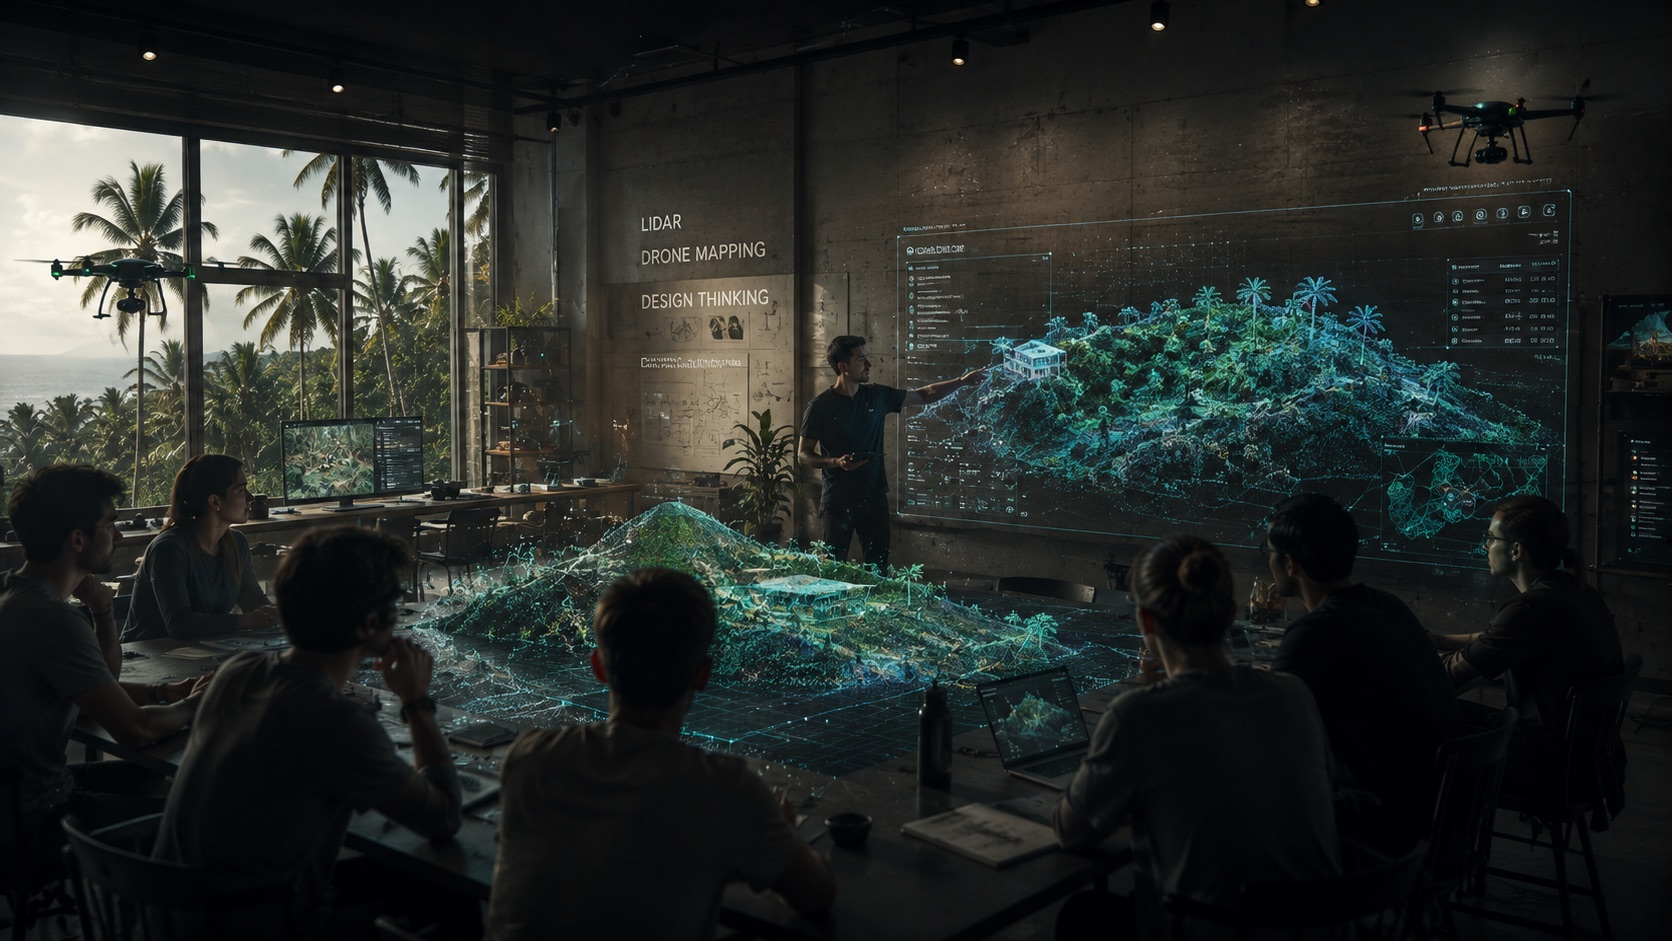
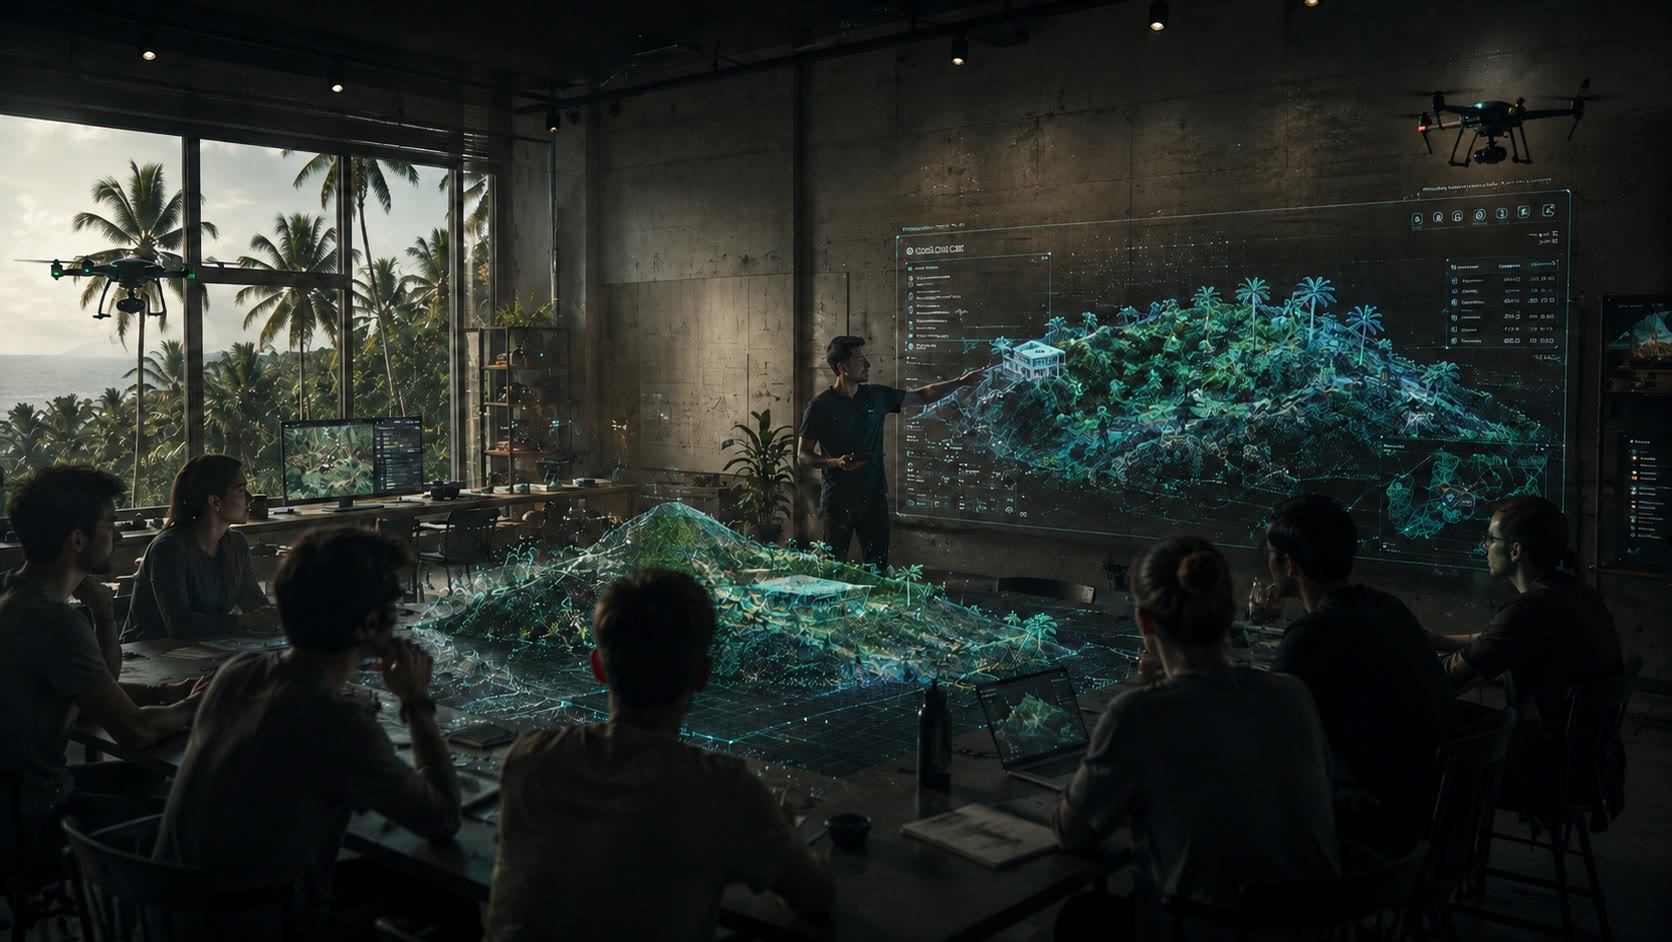
Education hero: new backdrop (aduc_alt -> education-back.jpg, 260KB); v=72

diff --git a/th/education.html b/th/education.html
@@ -7,8 +7,8 @@
 <meta name="description" content="เรียนรู้การสแกน LiDAR การทำแผนที่ด้วยโดรน และการวิเคราะห์ภูมิประเทศ 3 มิติ ผ่านเวิร์กช็อปและหลักสูตรอบรมของ EASY SCAN ในประเทศไทย">
 <link rel="icon" href="../assets/img/logo-mark-white.png">
 <script>document.documentElement.className+=" js";</script>
-<link rel="stylesheet" href="../design-system/styles.css?v=71">
-<link rel="stylesheet" href="../assets/css/style.css?v=71">
+<link rel="stylesheet" href="../design-system/styles.css?v=72">
+<link rel="stylesheet" href="../assets/css/style.css?v=72">
 </head>
 <body>
 <a class="skip-link" href="#main">ข้ามไปยังเนื้อหา</a>
@@ -55,7 +55,7 @@
 </nav>
 <main id="main">
   <section class="page-hero page-hero--full">
-    <div class="page-hero__media page-hero__media--light"><img src="../assets/img/education-back.jpg" alt="บรรยากาศเวิร์กช็อปภาคสนามในป่าเขตร้อน"></div>
+    <div class="page-hero__media page-hero__media--light"><img src="../assets/img/education-back.jpg" alt="Training session with participants viewing a holographic แบบจำลองภูมิประเทศ 3 มิติ"></div>
     <div class="wrap wrap--wide">
       <p class="breadcrumb"><a href="index.html">หน้าแรก</a><span>/</span> การอบรม</p>
       <h1 class="page-hero__title">หลักสูตร<br>อบรม</h1>
@@ -96,6 +96,6 @@
     </div>
   </div>
 </footer>
-<script src="../assets/js/main.js?v=71"></script>
+<script src="../assets/js/main.js?v=72"></script>
 </body>
 </html>

diff --git a/education.html b/education.html
@@ -7,8 +7,8 @@
 <meta name="description" content="Learn LiDAR scanning, drone mapping and 3D terrain analysis through EASY SCAN's workshops and training programs in Thailand.">
 <link rel="icon" href="assets/img/logo-mark-white.png">
 <script>document.documentElement.className+=" js";</script>
-<link rel="stylesheet" href="design-system/styles.css?v=71">
-<link rel="stylesheet" href="assets/css/style.css?v=71">
+<link rel="stylesheet" href="design-system/styles.css?v=72">
+<link rel="stylesheet" href="assets/css/style.css?v=72">
 </head>
 <body>
 <a class="skip-link" href="#main">Skip to content</a>
@@ -55,7 +55,7 @@
 </nav>
 <main id="main">
   <section class="page-hero page-hero--full">
-    <div class="page-hero__media page-hero__media--light"><img src="assets/img/education-back.jpg" alt="Field workshop setting in a tropical forest"></div>
+    <div class="page-hero__media page-hero__media--light"><img src="assets/img/education-back.jpg" alt="Training session with participants viewing a holographic 3D terrain model"></div>
     <div class="wrap wrap--wide">
       <p class="breadcrumb"><a href="index.html">Main</a><span>/</span> Education</p>
       <h1 class="page-hero__title">Education<br>program</h1>
@@ -96,6 +96,6 @@
     </div>
   </div>
 </footer>
-<script src="assets/js/main.js?v=71"></script>
+<script src="assets/js/main.js?v=72"></script>
 </body>
 </html>

diff --git a/th/index.html b/th/index.html
@@ -7,8 +7,8 @@
 <meta name="description" content="ข้อมูลที่ดินอัจฉริยะแบบดิจิทัลเพื่อการพัฒนาที่ชาญฉลาดขึ้น EASY SCAN ใช้ LiDAR และการทำแผนที่ด้วยโดรน เพื่อมอบแบบจำลองภูมิประเทศ 3 มิติที่แม่นยำแก่สถาปนิก นักพัฒนา และเจ้าของที่ดินในประเทศไทยก่อนเริ่มก่อสร้าง">
 <link rel="icon" href="../assets/img/logo-mark-white.png">
 <script>document.documentElement.className+=" js";</script>
-<link rel="stylesheet" href="../design-system/styles.css?v=71">
-<link rel="stylesheet" href="../assets/css/style.css?v=71">
+<link rel="stylesheet" href="../design-system/styles.css?v=72">
+<link rel="stylesheet" href="../assets/css/style.css?v=72">
 </head>
 <body>
 <a class="skip-link" href="#main">ข้ามไปยังเนื้อหา</a>
@@ -276,6 +276,6 @@
   </div>
 </footer>
 
-<script src="../assets/js/main.js?v=71"></script>
+<script src="../assets/js/main.js?v=72"></script>
 </body>
 </html>

diff --git a/th/about.html b/th/about.html
@@ -7,8 +7,8 @@
 <meta name="description" content="EASY SCAN คือบริษัทเทคโนโลยีในประเทศไทย เชี่ยวชาญการสแกนด้วย LiDAR การทำแผนที่ด้วยโดรน และการสร้างภาพ 3 มิติ ช่วยให้สถาปนิกและนักพัฒนาเข้าใจที่ดินก่อนลงมือก่อสร้าง">
 <link rel="icon" href="../assets/img/logo-mark-white.png">
 <script>document.documentElement.className+=" js";</script>
-<link rel="stylesheet" href="../design-system/styles.css?v=71">
-<link rel="stylesheet" href="../assets/css/style.css?v=71">
+<link rel="stylesheet" href="../design-system/styles.css?v=72">
+<link rel="stylesheet" href="../assets/css/style.css?v=72">
 </head>
 <body>
 <a class="skip-link" href="#main">ข้ามไปยังเนื้อหา</a>
@@ -178,6 +178,6 @@
     </div>
   </div>
 </footer>
-<script src="../assets/js/main.js?v=71"></script>
+<script src="../assets/js/main.js?v=72"></script>
 </body>
 </html>

diff --git a/th/twin.html b/th/twin.html
@@ -7,8 +7,8 @@
 <meta name="description" content="ดูว่าอาคารของคุณเข้ากับที่ดินอย่างไรด้วยดิจิทัลทวินของ EASY SCAN — แบบจำลองภูมิประเทศ 3 มิติที่แม่นยำ ผสาน LiDAR การทำแผนที่ด้วยโดรน Gaussian Splatting และโฟโตแกรมเมทรี">
 <link rel="icon" href="../assets/img/logo-mark-white.png">
 <script>document.documentElement.className+=" js";</script>
-<link rel="stylesheet" href="../design-system/styles.css?v=71">
-<link rel="stylesheet" href="../assets/css/style.css?v=71">
+<link rel="stylesheet" href="../design-system/styles.css?v=72">
+<link rel="stylesheet" href="../assets/css/style.css?v=72">
 </head>
 <body>
 <a class="skip-link" href="#main">ข้ามไปยังเนื้อหา</a>
@@ -134,6 +134,6 @@
     </div>
   </div>
 </footer>
-<script src="../assets/js/main.js?v=71"></script>
+<script src="../assets/js/main.js?v=72"></script>
 </body>
 </html>

diff --git a/th/contact.html b/th/contact.html
@@ -7,8 +7,8 @@
 <meta name="description" content="ติดต่อ EASY SCAN สำหรับงานสำรวจด้วย LiDAR การทำแผนที่ด้วยโดรน และการสร้างภาพภูมิประเทศ 3 มิติ บนเกาะพะงัน เกาะสมุย และภูเก็ต เราตอบกลับภายใน 24 ชั่วโมง">
 <link rel="icon" href="../assets/img/logo-mark-white.png">
 <script>document.documentElement.className+=" js";</script>
-<link rel="stylesheet" href="../design-system/styles.css?v=71">
-<link rel="stylesheet" href="../assets/css/style.css?v=71">
+<link rel="stylesheet" href="../design-system/styles.css?v=72">
+<link rel="stylesheet" href="../assets/css/style.css?v=72">
 </head>
 <body>
 <a class="skip-link" href="#main">ข้ามไปยังเนื้อหา</a>
@@ -138,6 +138,6 @@
     </div>
   </div>
 </footer>
-<script src="../assets/js/main.js?v=71"></script>
+<script src="../assets/js/main.js?v=72"></script>
 </body>
 </html>

diff --git a/th/monitoring.html b/th/monitoring.html
@@ -7,8 +7,8 @@
 <meta name="description" content="ติดตามความคืบหน้างานก่อสร้างด้วยการสแกน LiDAR 3 มิติ EASY SCAN บันทึกงานดิน งานระบบที่ซ่อนอยู่ และการเปลี่ยนแปลงของไซต์ตลอดการก่อสร้างในประเทศไทย">
 <link rel="icon" href="../assets/img/logo-mark-white.png">
 <script>document.documentElement.className+=" js";</script>
-<link rel="stylesheet" href="../design-system/styles.css?v=71">
-<link rel="stylesheet" href="../assets/css/style.css?v=71">
+<link rel="stylesheet" href="../design-system/styles.css?v=72">
+<link rel="stylesheet" href="../assets/css/style.css?v=72">
 </head>
 <body>
 <a class="skip-link" href="#main">ข้ามไปยังเนื้อหา</a>
@@ -119,6 +119,6 @@
     </div>
   </div>
 </footer>
-<script src="../assets/js/main.js?v=71"></script>
+<script src="../assets/js/main.js?v=72"></script>
 </body>
 </html>

diff --git a/th/concepting.html b/th/concepting.html
@@ -7,8 +7,8 @@
 <meta name="description" content="สแกนที่ดินของคุณด้วย LiDAR และโดรน แล้วทดสอบแนวคิดทางสถาปัตยกรรมบนภูมิประเทศจริงก่อนก่อสร้าง — บริการทดสอบแนวคิดของ EASY SCAN ในประเทศไทย">
 <link rel="icon" href="../assets/img/logo-mark-white.png">
 <script>document.documentElement.className+=" js";</script>
-<link rel="stylesheet" href="../design-system/styles.css?v=71">
-<link rel="stylesheet" href="../assets/css/style.css?v=71">
+<link rel="stylesheet" href="../design-system/styles.css?v=72">
+<link rel="stylesheet" href="../assets/css/style.css?v=72">
 </head>
 <body>
 <a class="skip-link" href="#main">ข้ามไปยังเนื้อหา</a>
@@ -120,6 +120,6 @@
     </div>
   </div>
 </footer>
-<script src="../assets/js/main.js?v=71"></script>
+<script src="../assets/js/main.js?v=72"></script>
 </body>
 </html>

diff --git a/th/museum.html b/th/museum.html
@@ -7,8 +7,8 @@
 <meta name="description" content="พิพิธภัณฑ์ดิจิทัลของ EASY SCAN ใช้การสแกน 3 มิติเพื่ออนุรักษ์และนำเสนอวัตถุทางวัฒนธรรมและแหล่งมรดกผ่านประสบการณ์ดิจิทัลแบบสมจริง">
 <link rel="icon" href="../assets/img/logo-mark-white.png">
 <script>document.documentElement.className+=" js";</script>
-<link rel="stylesheet" href="../design-system/styles.css?v=71">
-<link rel="stylesheet" href="../assets/css/style.css?v=71">
+<link rel="stylesheet" href="../design-system/styles.css?v=72">
+<link rel="stylesheet" href="../assets/css/style.css?v=72">
 </head>
 <body>
 <a class="skip-link" href="#main">ข้ามไปยังเนื้อหา</a>
@@ -127,6 +127,6 @@
     </div>
   </div>
 </footer>
-<script src="../assets/js/main.js?v=71"></script>
+<script src="../assets/js/main.js?v=72"></script>
 </body>
 </html>

diff --git a/th/gaussian.html b/th/gaussian.html
@@ -7,8 +7,8 @@
 <meta name="description" content="EASY SCAN สร้างสถานที่จริงขึ้นใหม่ด้วย Gaussian Splatting — ฉาก 3 มิติเสมือนจริงที่สำรวจได้โดยตรงในเว็บเบราว์เซอร์">
 <link rel="icon" href="../assets/img/logo-mark-white.png">
 <script>document.documentElement.className+=" js";</script>
-<link rel="stylesheet" href="../design-system/styles.css?v=71">
-<link rel="stylesheet" href="../assets/css/style.css?v=71">
+<link rel="stylesheet" href="../design-system/styles.css?v=72">
+<link rel="stylesheet" href="../assets/css/style.css?v=72">
 </head>
 <body>
 <a class="skip-link" href="#main">ข้ามไปยังเนื้อหา</a>
@@ -167,6 +167,6 @@
     </div>
   </div>
 </footer>
-<script src="../assets/js/main.js?v=71"></script>
+<script src="../assets/js/main.js?v=72"></script>
 </body>
 </html>

diff --git a/index.html b/index.html
@@ -7,8 +7,8 @@
 <meta name="description" content="Digital land intelligence for smarter development. EASY SCAN uses LiDAR and drone mapping to give architects, developers and landowners in Thailand accurate 3D terrain models before construction begins.">
 <link rel="icon" href="assets/img/logo-mark-white.png">
 <script>document.documentElement.className+=" js";</script>
-<link rel="stylesheet" href="design-system/styles.css?v=71">
-<link rel="stylesheet" href="assets/css/style.css?v=71">
+<link rel="stylesheet" href="design-system/styles.css?v=72">
+<link rel="stylesheet" href="assets/css/style.css?v=72">
 </head>
 <body>
 <a class="skip-link" href="#main">Skip to content</a>
@@ -276,6 +276,6 @@
   </div>
 </footer>
 
-<script src="assets/js/main.js?v=71"></script>
+<script src="assets/js/main.js?v=72"></script>
 </body>
 </html>

diff --git a/about.html b/about.html
@@ -7,8 +7,8 @@
 <meta name="description" content="EASY SCAN is a Thailand-based technology company specialising in LiDAR scanning, drone mapping and 3D visualisation — helping architects and developers understand land before building.">
 <link rel="icon" href="assets/img/logo-mark-white.png">
 <script>document.documentElement.className+=" js";</script>
-<link rel="stylesheet" href="design-system/styles.css?v=71">
-<link rel="stylesheet" href="assets/css/style.css?v=71">
+<link rel="stylesheet" href="design-system/styles.css?v=72">
+<link rel="stylesheet" href="assets/css/style.css?v=72">
 </head>
 <body>
 <a class="skip-link" href="#main">Skip to content</a>
@@ -178,6 +178,6 @@
     </div>
   </div>
 </footer>
-<script src="assets/js/main.js?v=71"></script>
+<script src="assets/js/main.js?v=72"></script>
 </body>
 </html>
